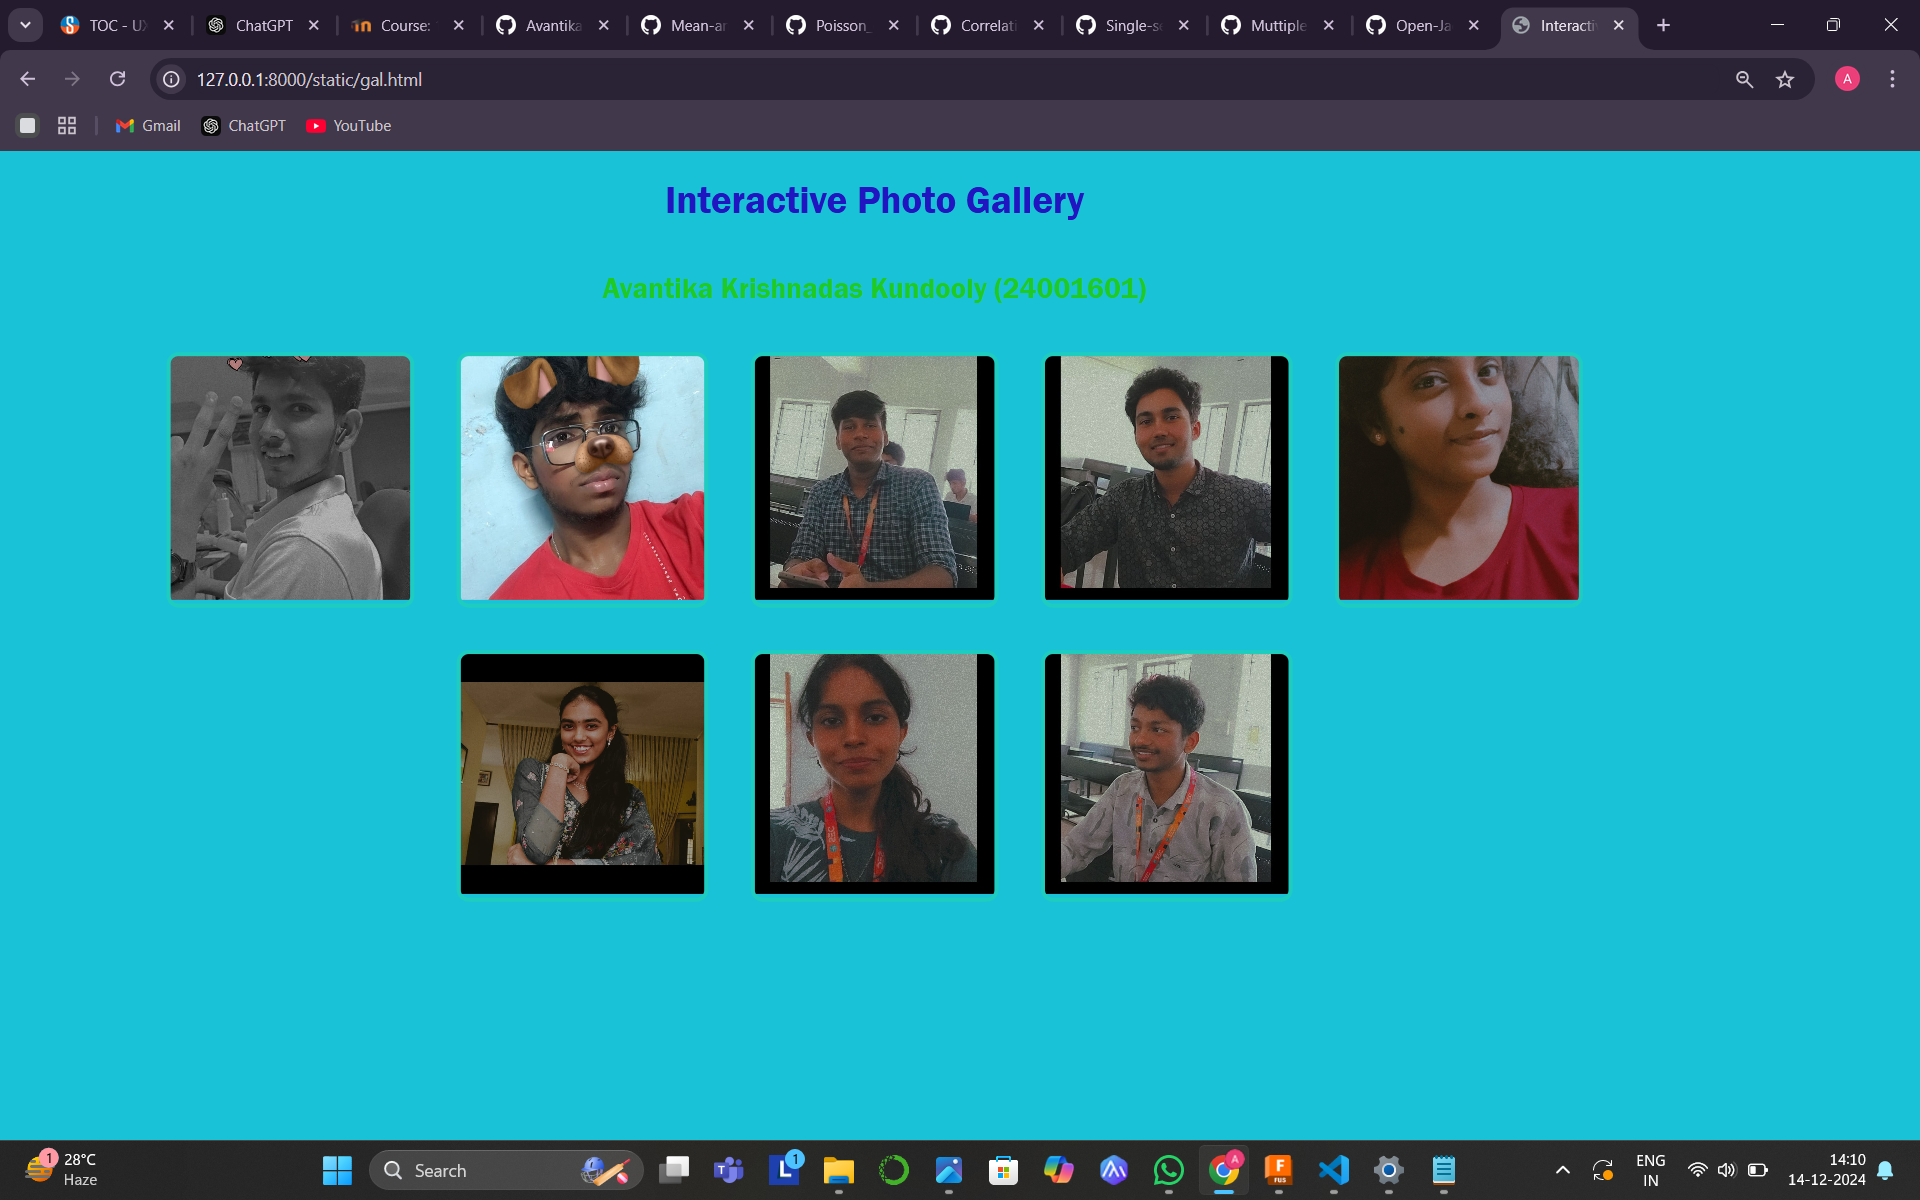
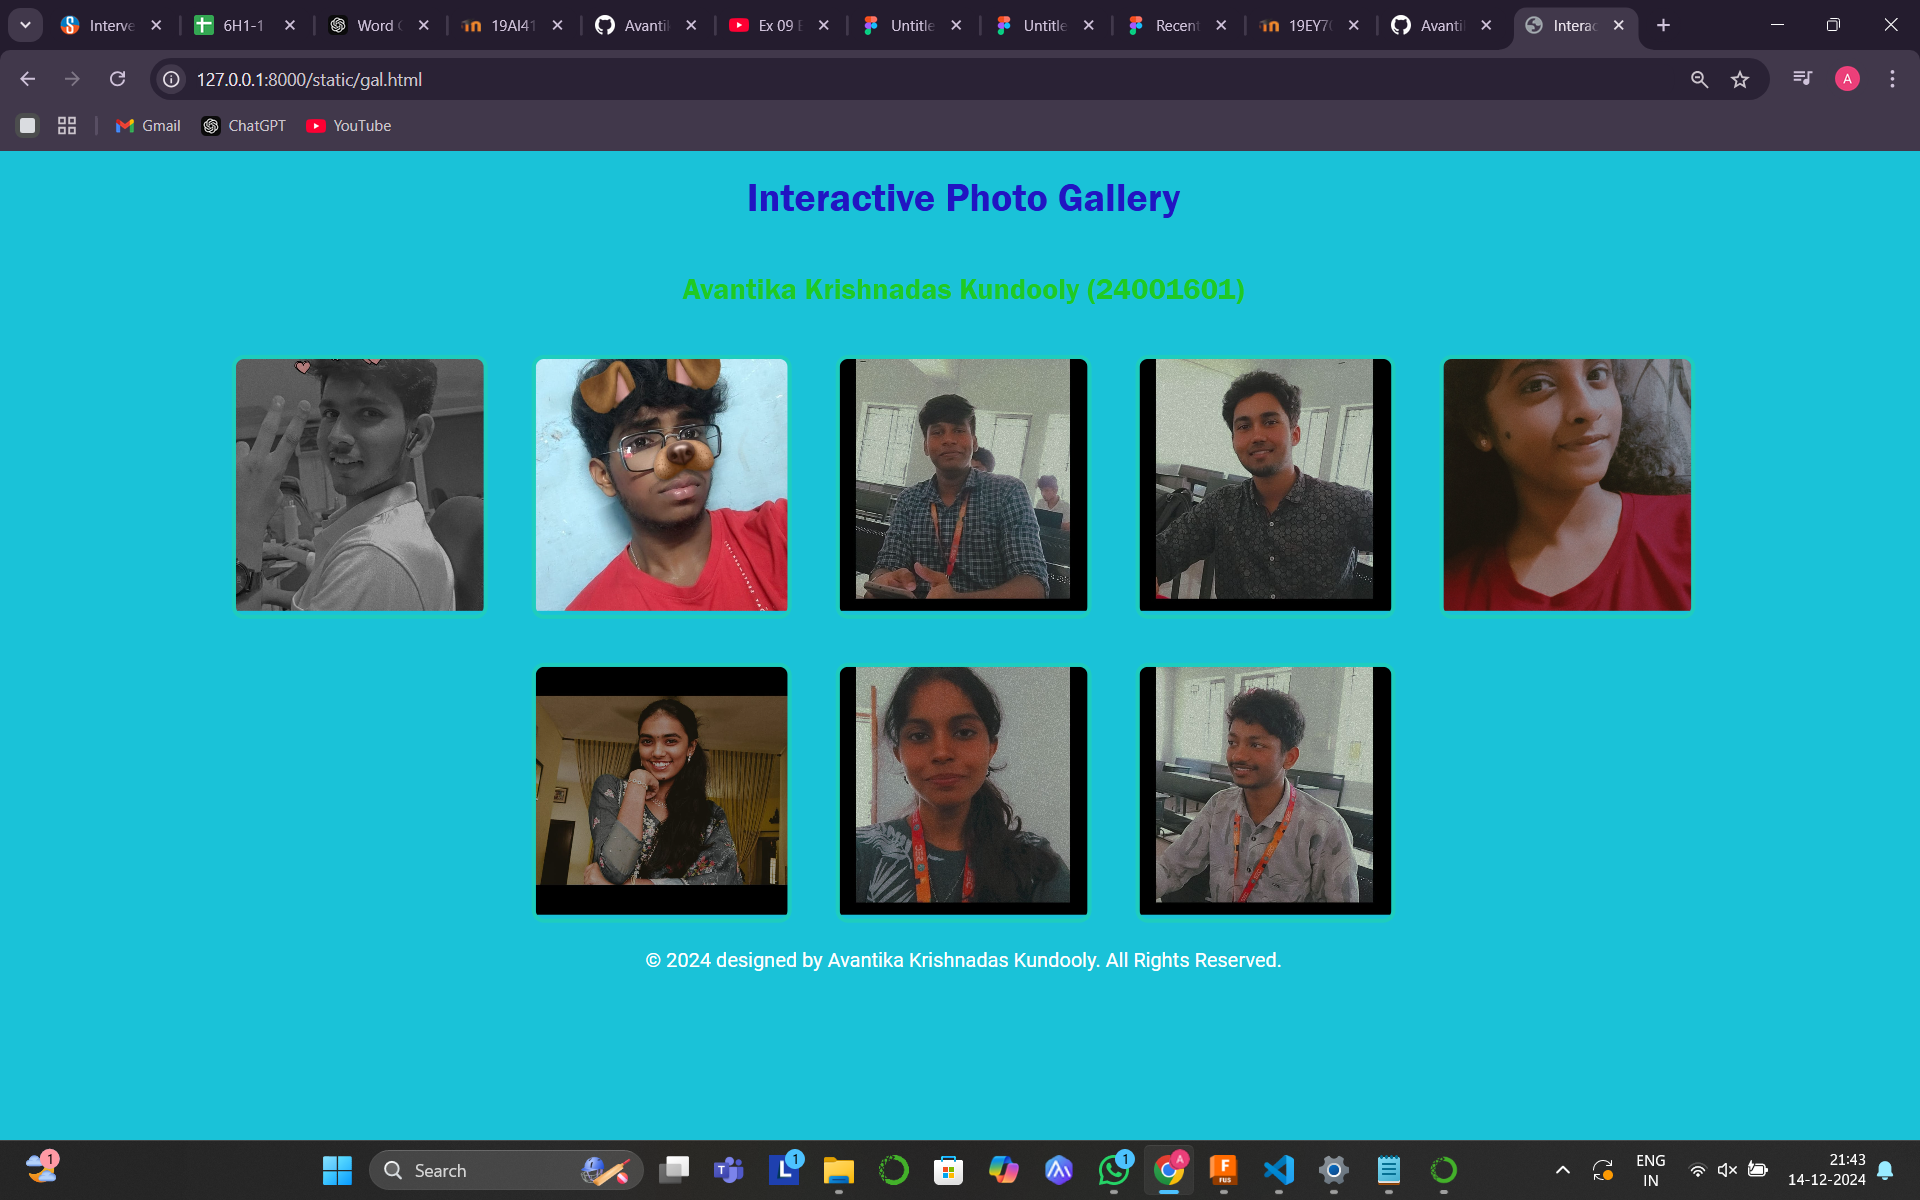
Success

diff --git a/avantika/imageapp/static/gal.html b/avantika/imageapp/static/gal.html
@@ -112,6 +112,10 @@
         <img id="modal-img" src="" alt="Enlarged">
     </div>
 
+    <footer>
+        &copy; 2024 designed by Avantika Krishnadas Kundooly. All Rights Reserved.
+    </footer>
+
     <script>
         
         const galleryItems = document.querySelectorAll('.gallery-item img');

diff --git a/README.md b/README.md
@@ -140,6 +140,10 @@ Publish the website in the given URL.
         <img id="modal-img" src="" alt="Enlarged">
     </div>
 
+    <footer>
+        &copy; 2024 designed by Avantika Krishnadas Kundooly. All Rights Reserved.
+    </footer>
+
     <script>
         
         const galleryItems = document.querySelectorAll('.gallery-item img');
@@ -169,6 +173,16 @@ Publish the website in the given URL.
     </script>
 </body>
 </html>
+
+</main>
+    <footer>
+        <p>&copy; 2024 [Your Name]. All Rights Reserved.</p>
+    </footer>
+</body>
+</html>
+
+
+
 ```
 
 
